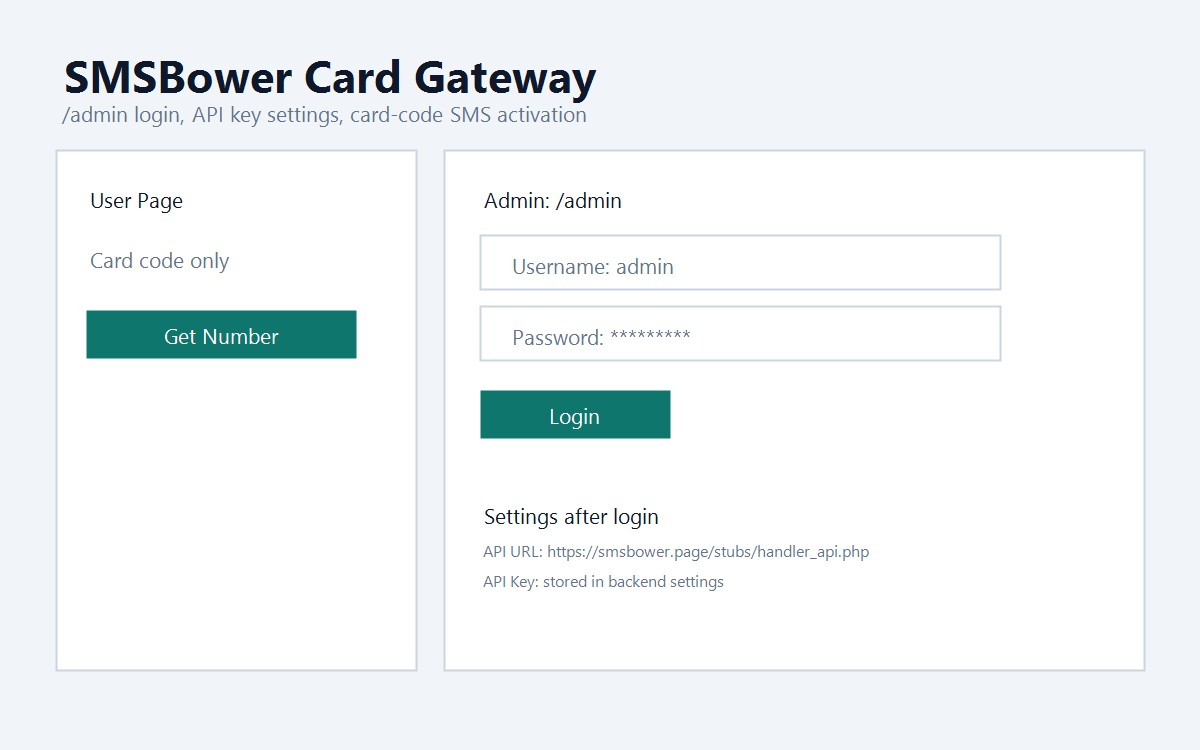
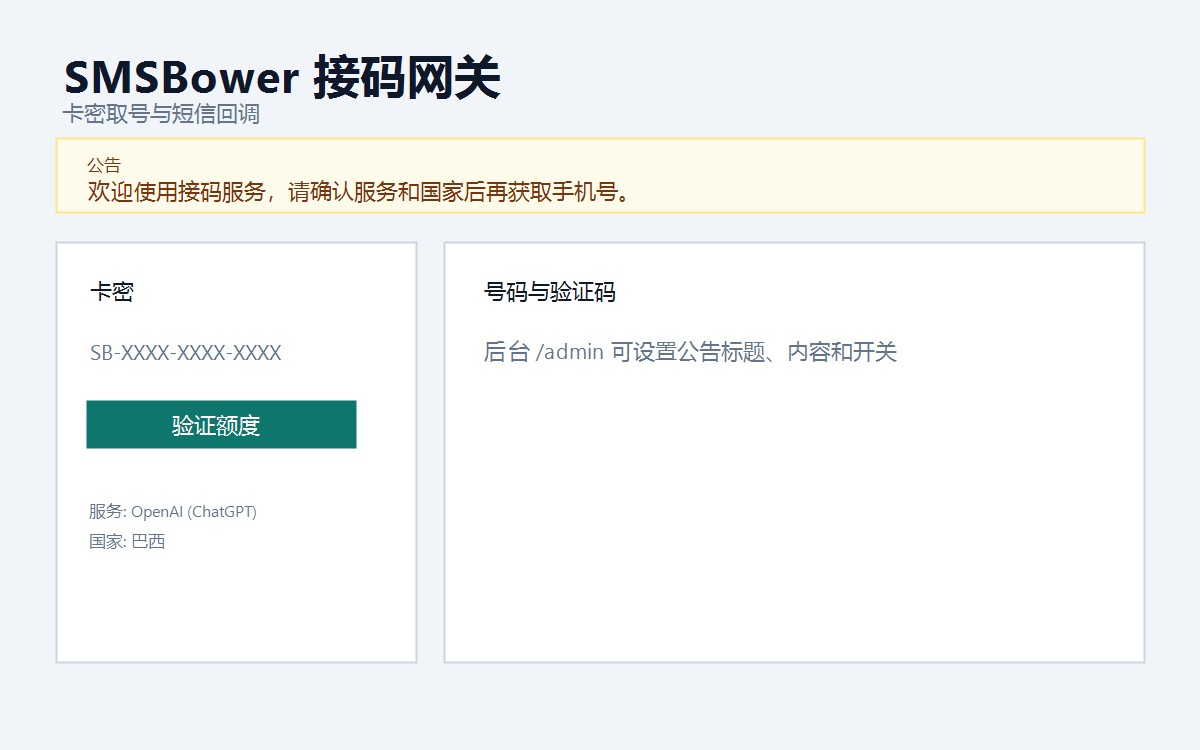
Add configurable homepage announcement

diff --git a/app/dashboard-client.tsx b/app/dashboard-client.tsx
@@ -2,7 +2,7 @@
 
 import type { FormEvent, ReactNode } from "react";
 import Link from "next/link";
-import { useMemo, useState } from "react";
+import { useEffect, useMemo, useState } from "react";
 
 type Order = {
   id: number;
@@ -84,6 +84,15 @@ type AdminSettings = {
   apiKeyPreview: string;
   apiKeySource: string;
   defaultApiBaseUrl: string;
+  announcementEnabled: boolean;
+  announcementTitle: string;
+  announcementBody: string;
+};
+
+type Announcement = {
+  enabled: boolean;
+  title: string;
+  body: string;
 };
 
 type ApiOptions = RequestInit & {
@@ -166,6 +175,30 @@ function Field({
   );
 }
 
+function TextArea({
+  label,
+  value,
+  onChange,
+  placeholder,
+}: {
+  label: string;
+  value: string;
+  onChange: (value: string) => void;
+  placeholder?: string;
+}) {
+  return (
+    <label className="grid gap-1 text-sm text-slate-600">
+      <span>{label}</span>
+      <textarea
+        className="min-h-28 resize-y rounded border border-slate-300 bg-white px-3 py-2 text-sm text-slate-950 outline-none transition focus:border-teal-600 focus:ring-2 focus:ring-teal-100"
+        placeholder={placeholder}
+        value={value}
+        onChange={(event) => onChange(event.target.value)}
+      />
+    </label>
+  );
+}
+
 function Button({
   children,
   onClick,
@@ -206,6 +239,7 @@ export default function DashboardClient({
   const [tab] = useState<"client" | "admin">(adminOnly ? "admin" : "client");
   const [cardCode, setCardCode] = useState("");
   const [session, setSession] = useState<Session | null>(null);
+  const [announcement, setAnnouncement] = useState<Announcement | null>(null);
   const [clientMessage, setClientMessage] = useState("");
   const [clientBusy, setClientBusy] = useState(false);
   const [adminUsername, setAdminUsername] = useState(() =>
@@ -240,12 +274,37 @@ export default function DashboardClient({
   const [settingsForm, setSettingsForm] = useState({
     apiBaseUrl: "https://smsbower.page/stubs/handler_api.php",
     apiKey: "",
+    announcementEnabled: false,
+    announcementTitle: "",
+    announcementBody: "",
   });
 
   const webhookUrl = useMemo(() => {
     if (!origin) return "/api/webhook/smsbower";
     return `${origin}/api/webhook/smsbower`;
   }, [origin]);
+
+  useEffect(() => {
+    if (adminOnly) return;
+
+    let cancelled = false;
+    fetch("/api/public/announcement")
+      .then((response) => response.json())
+      .then((data: { announcement?: Announcement }) => {
+        if (!cancelled) {
+          setAnnouncement(data.announcement ?? null);
+        }
+      })
+      .catch(() => {
+        if (!cancelled) {
+          setAnnouncement(null);
+        }
+      });
+
+    return () => {
+      cancelled = true;
+    };
+  }, [adminOnly]);
 
   async function loadSession(nextCardCode = cardCode) {
     setClientBusy(true);
@@ -341,6 +400,9 @@ export default function DashboardClient({
       setSettingsForm({
         apiBaseUrl: settingsData.settings.apiBaseUrl,
         apiKey: "",
+        announcementEnabled: settingsData.settings.announcementEnabled,
+        announcementTitle: settingsData.settings.announcementTitle,
+        announcementBody: settingsData.settings.announcementBody,
       });
       setAdminMessage("后台已刷新。");
       localStorage.setItem("smsbower-admin-username", adminUsername.trim());
@@ -363,7 +425,13 @@ export default function DashboardClient({
         body: JSON.stringify(settingsForm),
       });
       setAdminSettings(data.settings);
-      setSettingsForm({ apiBaseUrl: data.settings.apiBaseUrl, apiKey: "" });
+      setSettingsForm({
+        apiBaseUrl: data.settings.apiBaseUrl,
+        apiKey: "",
+        announcementEnabled: data.settings.announcementEnabled,
+        announcementTitle: data.settings.announcementTitle,
+        announcementBody: data.settings.announcementBody,
+      });
       await loadAdmin();
       setAdminMessage("API 设置已保存。");
     } catch (error) {
@@ -450,6 +518,17 @@ export default function DashboardClient({
             </Link>
           ) : null}
         </header>
+
+        {!adminOnly && announcement?.enabled && announcement.body ? (
+          <section className="rounded-lg border border-amber-200 bg-amber-50 px-5 py-4 text-amber-950">
+            {announcement.title ? (
+              <h2 className="text-sm font-semibold">{announcement.title}</h2>
+            ) : null}
+            <p className="mt-1 whitespace-pre-wrap text-sm leading-6">
+              {announcement.body}
+            </p>
+          </section>
+        ) : null}
 
         {tab === "client" ? (
           <section className="grid gap-5 lg:grid-cols-[380px_1fr]">
@@ -709,6 +788,45 @@ export default function DashboardClient({
                   <p>当前 Key：{adminSettings?.apiKeyPreview || "未设置"}</p>
                   <p>来源：{adminSettings?.apiKeySource || "--"}</p>
                 </div>
+                <div className="border-t border-slate-200 pt-3">
+                  <h3 className="text-sm font-semibold text-slate-900">首页公告</h3>
+                  <label className="mt-3 flex items-center gap-2 text-sm text-slate-700">
+                    <input
+                      checked={settingsForm.announcementEnabled}
+                      className="h-4 w-4 accent-teal-700"
+                      type="checkbox"
+                      onChange={(event) =>
+                        setSettingsForm((form) => ({
+                          ...form,
+                          announcementEnabled: event.target.checked,
+                        }))
+                      }
+                    />
+                    启用公告栏
+                  </label>
+                </div>
+                <Field
+                  label="公告标题"
+                  placeholder="例如：最新通知"
+                  value={settingsForm.announcementTitle}
+                  onChange={(value) =>
+                    setSettingsForm((form) => ({
+                      ...form,
+                      announcementTitle: value,
+                    }))
+                  }
+                />
+                <TextArea
+                  label="公告内容"
+                  placeholder="填写要展示在首页的公告内容"
+                  value={settingsForm.announcementBody}
+                  onChange={(value) =>
+                    setSettingsForm((form) => ({
+                      ...form,
+                      announcementBody: value,
+                    }))
+                  }
+                />
                 <Button disabled={adminBusy} type="submit">
                   保存接口设置
                 </Button>

diff --git a/app/api/admin/settings/route.ts b/app/api/admin/settings/route.ts
@@ -7,28 +7,46 @@ import {
 } from "@/lib/server";
 import {
   DEFAULT_SMSBOWER_API_BASE_URL,
+  getAnnouncementSettings,
   getSmsBowerSettings,
+  updateAnnouncementSettings,
   updateSmsBowerSettings,
 } from "@/lib/settings";
 
 type SettingsPayload = {
   apiBaseUrl?: string;
   apiKey?: string;
+  announcementEnabled?: boolean | number | string;
+  announcementTitle?: string;
+  announcementBody?: string;
 };
+
+function toSettingsResponse(
+  settings: Awaited<ReturnType<typeof getSmsBowerSettings>>,
+  announcement: Awaited<ReturnType<typeof getAnnouncementSettings>>
+) {
+  return {
+    apiBaseUrl: settings.apiBaseUrl,
+    apiKeyConfigured: settings.apiKeyConfigured,
+    apiKeyPreview: settings.apiKeyPreview,
+    apiKeySource: settings.apiKeySource,
+    defaultApiBaseUrl: DEFAULT_SMSBOWER_API_BASE_URL,
+    announcementEnabled: announcement.enabled,
+    announcementTitle: announcement.title,
+    announcementBody: announcement.body,
+  };
+}
 
 export async function GET(request: Request) {
   const adminError = requireAdmin(request);
   if (adminError) return adminError;
 
-  const settings = await getSmsBowerSettings();
+  const [settings, announcement] = await Promise.all([
+    getSmsBowerSettings(),
+    getAnnouncementSettings(),
+  ]);
   return ok({
-    settings: {
-      apiBaseUrl: settings.apiBaseUrl,
-      apiKeyConfigured: settings.apiKeyConfigured,
-      apiKeyPreview: settings.apiKeyPreview,
-      apiKeySource: settings.apiKeySource,
-      defaultApiBaseUrl: DEFAULT_SMSBOWER_API_BASE_URL,
-    },
+    settings: toSettingsResponse(settings, announcement),
   });
 }
 
@@ -46,18 +64,19 @@ export async function PATCH(request: Request) {
     return fail("API 地址格式不正确。");
   }
 
-  const settings = await updateSmsBowerSettings({
-    apiBaseUrl,
-    apiKey: payload.apiKey,
-  });
+  const [settings, announcement] = await Promise.all([
+    updateSmsBowerSettings({
+      apiBaseUrl,
+      apiKey: payload.apiKey,
+    }),
+    updateAnnouncementSettings({
+      enabled: payload.announcementEnabled,
+      title: payload.announcementTitle,
+      body: payload.announcementBody,
+    }),
+  ]);
 
   return ok({
-    settings: {
-      apiBaseUrl: settings.apiBaseUrl,
-      apiKeyConfigured: settings.apiKeyConfigured,
-      apiKeyPreview: settings.apiKeyPreview,
-      apiKeySource: settings.apiKeySource,
-      defaultApiBaseUrl: DEFAULT_SMSBOWER_API_BASE_URL,
-    },
+    settings: toSettingsResponse(settings, announcement),
   });
 }

diff --git a/lib/settings.ts b/lib/settings.ts
@@ -8,6 +8,9 @@ export const DEFAULT_SMSBOWER_API_BASE_URL =
 
 const API_BASE_URL_KEY = "smsbower_api_base_url";
 const API_KEY_KEY = "smsbower_api_key";
+const ANNOUNCEMENT_ENABLED_KEY = "announcement_enabled";
+const ANNOUNCEMENT_TITLE_KEY = "announcement_title";
+const ANNOUNCEMENT_BODY_KEY = "announcement_body";
 
 function maskSecret(value: string) {
   if (!value) return "";
@@ -85,4 +88,34 @@ export async function updateSmsBowerSettings(values: {
   }
 
   return getSmsBowerSettings();
+}
+
+export async function getAnnouncementSettings() {
+  const enabled = cleanText(await getStoredSetting(ANNOUNCEMENT_ENABLED_KEY));
+  const title = cleanText(await getStoredSetting(ANNOUNCEMENT_TITLE_KEY));
+  const body = cleanText(await getStoredSetting(ANNOUNCEMENT_BODY_KEY));
+
+  return {
+    enabled: enabled === "1",
+    title,
+    body,
+  };
+}
+
+export async function updateAnnouncementSettings(values: {
+  enabled?: boolean | number | string;
+  title?: string;
+  body?: string;
+}) {
+  const enabled =
+    values.enabled === true ||
+    values.enabled === 1 ||
+    values.enabled === "1" ||
+    values.enabled === "true";
+
+  await setStoredSetting(ANNOUNCEMENT_ENABLED_KEY, enabled ? "1" : "0");
+  await setStoredSetting(ANNOUNCEMENT_TITLE_KEY, cleanText(values.title));
+  await setStoredSetting(ANNOUNCEMENT_BODY_KEY, cleanText(values.body));
+
+  return getAnnouncementSettings();
 }

diff --git a/app/api/public/announcement/route.ts b/app/api/public/announcement/route.ts
@@ -1,0 +1,13 @@
+import { getAnnouncementSettings } from "@/lib/settings";
+import { ok } from "@/lib/server";
+
+export async function GET() {
+  const announcement = await getAnnouncementSettings();
+
+  return ok({
+    announcement:
+      announcement.enabled && announcement.body
+        ? announcement
+        : { enabled: false, title: "", body: "" },
+  });
+}